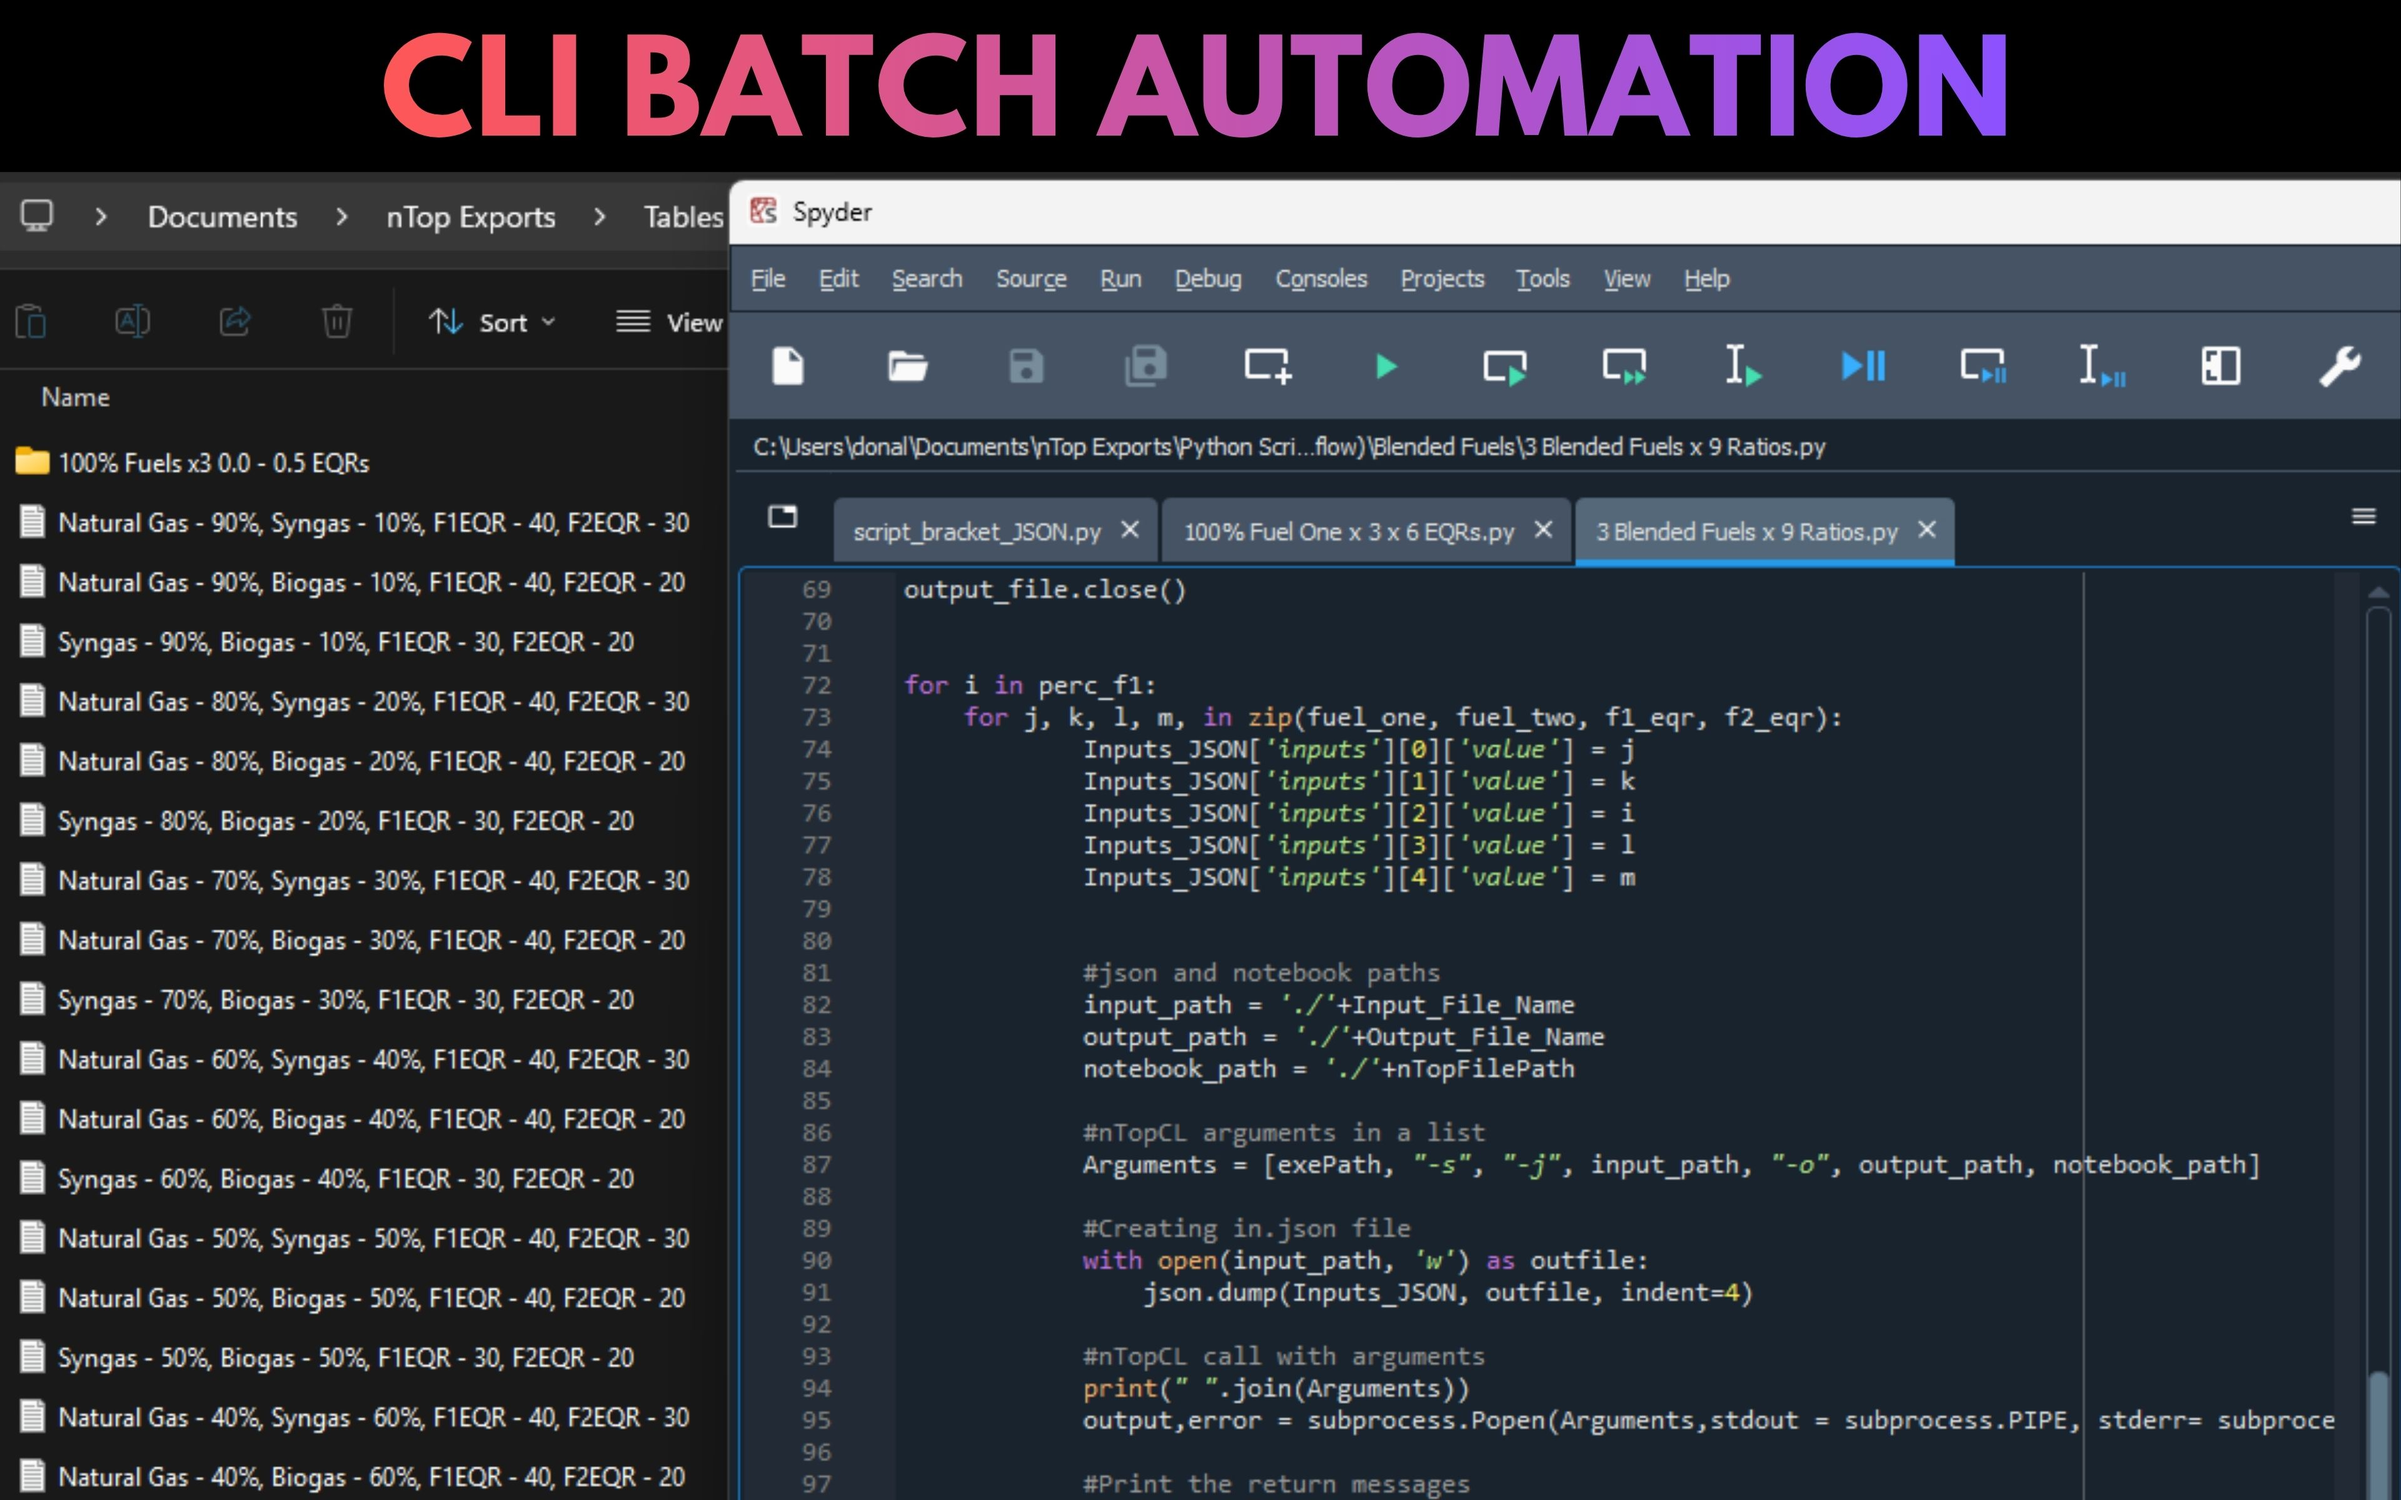
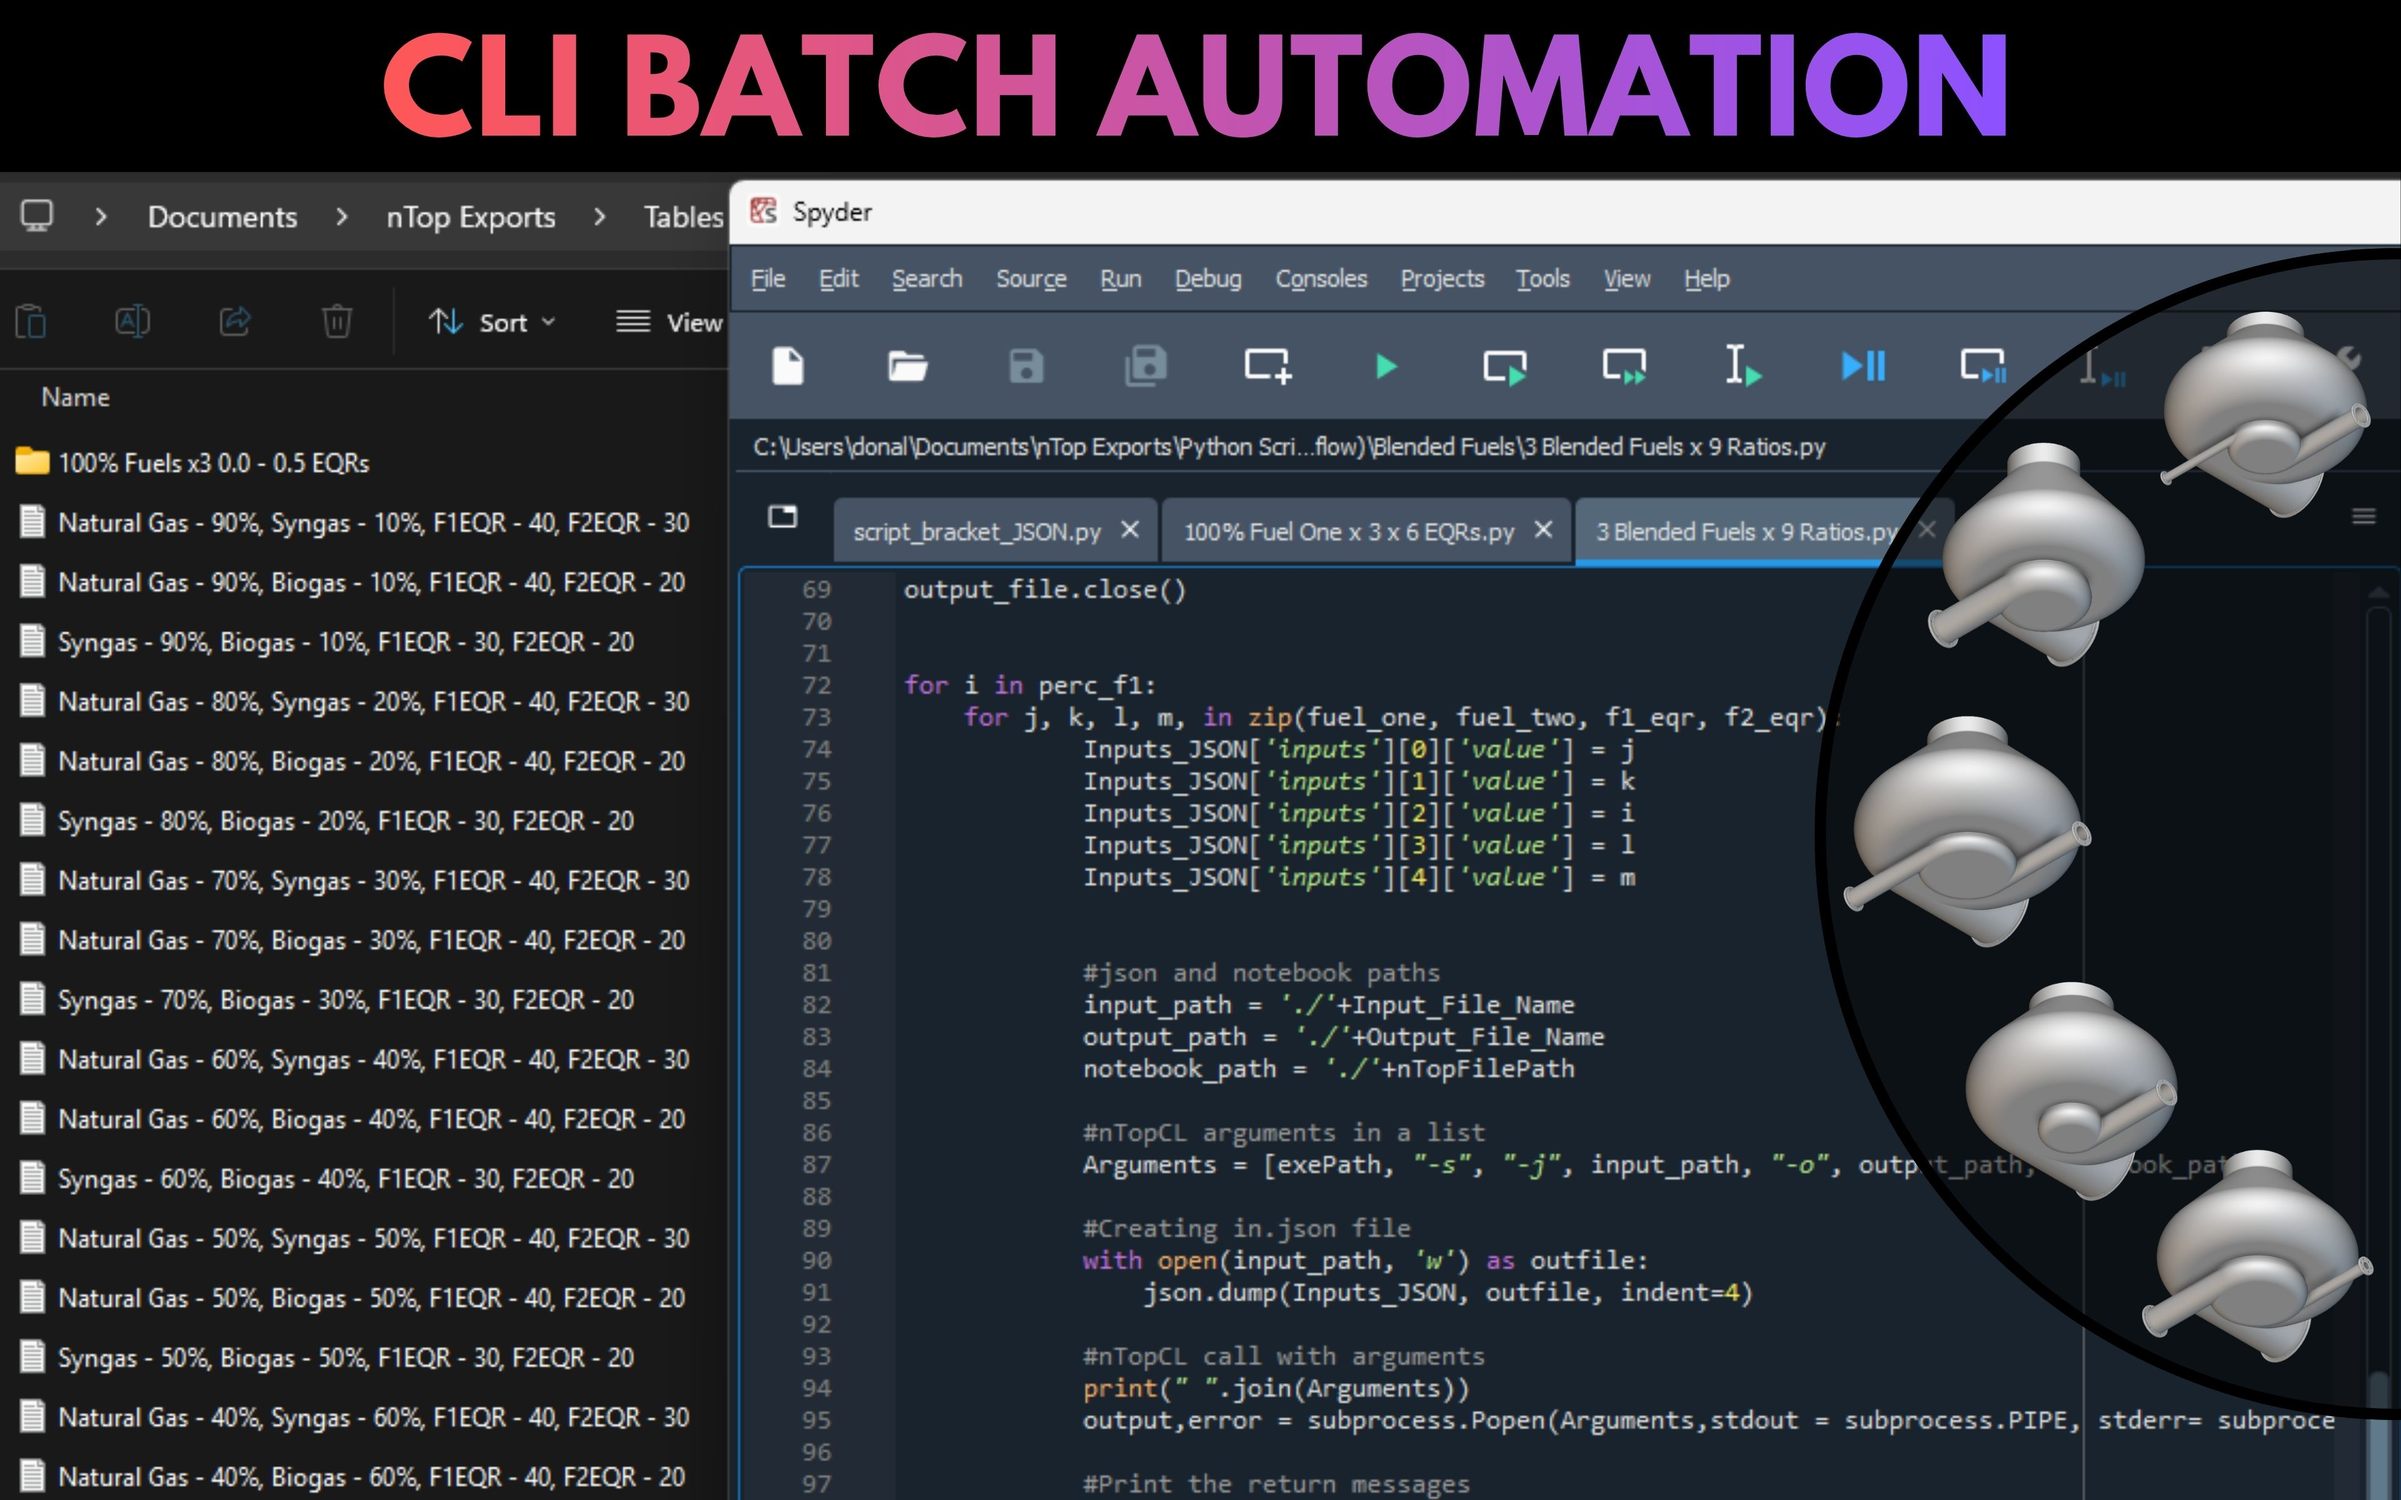
Text and CLI Batch Update

Changed region(s): [[0.75, 0.1562, 1.0, 0.9688]]

diff --git a/index.html b/index.html
@@ -27,8 +27,8 @@
     Donald's Engineering Portfolio
   </title>
 
-  <meta name="description" content="A Mechanical Design Engineer and Aerodynamicist" >
-  <meta name="description" content="A Mechanical and Computational Design Engineer and Aerodynamicist" >
+  <meta name="description" content="A Mechanical and Computational Design Engineer" >
+  <meta name="description" content="A Mechanical and Computational Design Engineer" >
   <!-- Add some coding keywords below, Ex: (React, CSS etc) -->
   <meta name="keywords" content="Donald Jacob, Computer-Aided Design, CAD, Computational Fluid Dynamics, CFD, Finite Element Analysis, FEA, Thermal Analysis, Stress Analysis, Fusion 360, CFD Nigeria, CFD Lagos, Machine Drawing, Mechanical Drawing, Ansys Nigeria, Ansys Lagos, Fusion 360, Solidworks"/>
   <link rel="stylesheet" href="index.css" />
@@ -57,7 +57,8 @@
           <span>DONALD JACOB</span>
         </h1>
         <!-- Put a small paragraph about yourself -->
-        <p>Mechanical & Computational Design Engineer</p>
+        <p>Mechanical Design Engineer</p>
+        <p>Computational Design Engineer</p>
         <a href="#contact" class="btn btn--pink">Contact</a>
       </div>
     </div>
@@ -76,7 +77,7 @@
 
           <div class="work__box">
             <div class="work__text">
-              <h3>Lattice Core Generation</h3>
+              <h3>Implicit Modelling - Lattice Core Generation</h3>
             </div>
             <div class="work__image-box">
               <img src="./images/Bias Core.jpg" class="work__image" alt="Project 1" />
@@ -115,7 +116,7 @@
               <h3>Generate Design Variations Headlessly using nTop Automate</h3>
             </div>
             <div class="work__image-box">
-              <img src="./images/CLI Batch Automation.jpg" class="work__image" alt="Project 1" />
+              <img src="./images/CLI BATCH AUTOMATION.jpg" class="work__image" alt="Project 1" />
             </div>
           </div>
 
@@ -146,7 +147,7 @@
               <h3>Mechanical Design Engineer | Build-A-Tech Incubator and Workspace</h3>
 	      <h3>Mechanical Design Engineer, Pedal Power: A stationary exercise bike that generates electricity as you pedal</h3>
 	      <p>
-                I suggested and spearheaded the tandem design as their next iteration: a setup that connects multiple kits together for gamification and cutting scaling costs by utilising the same electronic components.
+                I suggested and spearheaded the tandem design as their next iteration: a setup that connects multiple kits together for gamification and cuts scaling costs by utilising the same electronic components.
               </p>
               <ul class="work__list">
                 <li>Autodesk Fusion</li>
@@ -186,7 +187,7 @@
             <div class="work__text">
               <h3>Lattice Interface Wedging</h3>
               <p>
-                A cross-compatible workflow that generates entry wedges to funnel fluid straight into lattice channels to reduce early pressure drop.
+                A cross-compatible workflow that generates entry wedges to funnel fluid straight into lattice channels to reduce early pressure drop in lattice heat exchangers.
               </p>
             </div>
             <div class="work__image-box">
@@ -198,7 +199,7 @@
             <div class="work__text">
               <h3>Normal Layer Identifier</h3>
               <p>
-                A workflow that cuts lattices at their most normal layer, ensuring fluid enters perpendicular to the lattice surface for flow alignment and intake turbulence reduction.
+                A workflow that cuts lattices at their most normal layer, ensuring fluid enters perpendicular to the lattice surface for flow alignment and intake turbulence reduction in lattice heat exchangers.
               </p>
             </div>
             <div class="work__image-box">
@@ -208,9 +209,9 @@
 
          <div class="work__box">
             <div class="work__text">
-              <h3>Complex Tangent Loft</h3>
+              <h3>Hyperbolic Tangent Loft</h3>
               <p>
-                A workflow using the hyperbolic tangent ( x) function for smooth lofts across single-to-single and single-to-multi complex profiles, without geometric distortion.
+                A workflow using the hyperbolic tangent function (tanhx) for smooth lofts across simple and complex profiles, without geometric distortion.
               </p>
             </div>
             <div class="work__image-box">
@@ -220,9 +221,9 @@
 
          <div class="work__box">
             <div class="work__text">
-              <h3>Linear-to-Tangential Profile Twist</h3>
+              <h3>Linear-to-Exponential Profile Twist</h3>
               <p>
-                A workflow that smoothly ramps profiles from linear into non-linear tangential curves, optimal for controlled blisk and wing twists across spatial dimensions.
+                A workflow that smoothly ramps profiles from linear into exponential curves, optimal for controlled blisk and wing twists across spatial dimensions.
               </p>
             </div>
             <div class="work__image-box">
@@ -256,7 +257,7 @@
 
           <div class="work__box">
             <div class="work__text">
-              <h3>Second Place | NASA - Hypervelocity Expansion Tunnel for Human‑rated Entry Vehicles</h3>
+              <h3>Second Place Co-Winner | NASA - Hypervelocity Expansion Tunnel for Human‑rated Entry Vehicles</h3>
               <p>
                 Designed a Mach 19 hypervelocity expansion tunnel concept to close NASA’s ground‑test gap in high‑enthalpy flows for human‑rated entry vehicles. The model features:
 		<li>A calculated and simulated Converging-Diverging section with staged high‑pressure gas generation and replaceable diaphragms for automated cycle resetting.</li>
@@ -279,7 +280,7 @@
 
           <div class="work__box">
             <div class="work__text">
-              <h3>First Place Co-Designer | NASA - Super Heavy Logistics Transport for the Moon and Mars</h3>
+              <h3>First Place Co-Winner | NASA - Super Heavy Logistics Transport for the Moon and Mars</h3>
               <p>
                 “The Limb” is a heavy‑lift moon-based transportation system optimised for unprepared lunar terrain, capable of moving up to 100t payloads from SpaceX Starship landers to distant ground-resource utilisation sites. Key features include: 
 		<li>Innovative crane-to-crane transfer technique for NASA’s Common Habitat during relocation, with low‑pressure, large‑footprint “Swing Feet” for stability.</li>
@@ -302,7 +303,7 @@
 
 	  <div class="work__box">
             <div class="work__text">
-              <h3>Second Place Co-Designer | NASA - 3D Printable Bioreactor for Deep Space Food Production</h3>
+              <h3>Second Place Co-Winner | NASA - 3D Printable Bioreactor for Deep Space Food Production</h3>
               <p>
                 Co-designed the Rotary Vane Bioreactor, a fully 3D‑printable reactor inspired by rotary vane compressors to enable on‑demand microbial culture in deep space. Key aspects include: 
 		<li>Compartmentalised vanes integrated with Luer locks for liquid culture injection and extraction, and a PTFE base membrane for gas transfer with the cabin during microbial growth.</li>
@@ -325,10 +326,10 @@
 
 	  <div class="work__box">
             <div class="work__text">
-              <h3>Fourth Place Co-Designer | NASA - Lunar Gateway Cargo Packing and Storing</h3>
+              <h3>Fourth Place Co-Winner | NASA - Lunar Gateway Cargo Packing and Storing</h3>
               <p>
                 Co-designed the "Supercharged Lego," an internal stowage system for the Lunar Gateway Logistics Module to secure cargo against launch loads and organise it in zero-gravity. Key aspects include: 
-		<li>Engineered a modular, high-density packing layout to optimise the limited volume of the module while minimizing system mass to preserve critical launch up-mass.</li>
+		<li>Engineered a modular, high-density packing layout to optimise the limited volume of the module while minimising system mass to preserve critical launch up-mass.</li>
                 <li>Designed structural restraints to withstand heavy launch vibrations and 6g axial loads, double-functioning as a quick-access pantry system for astronauts in orbit.</li>
 	      </p>
 
@@ -342,7 +343,7 @@
               </div>
             </div>
             <div class="work__image-box">
-              <img src="./images/nasa supercharged lego.jpg" class="work__image" alt="Project 1" />
+              <img src="./images/nasa supercharged.jpg" class="work__image" alt="Project 1" />
             </div>
           </div>
         </div>
